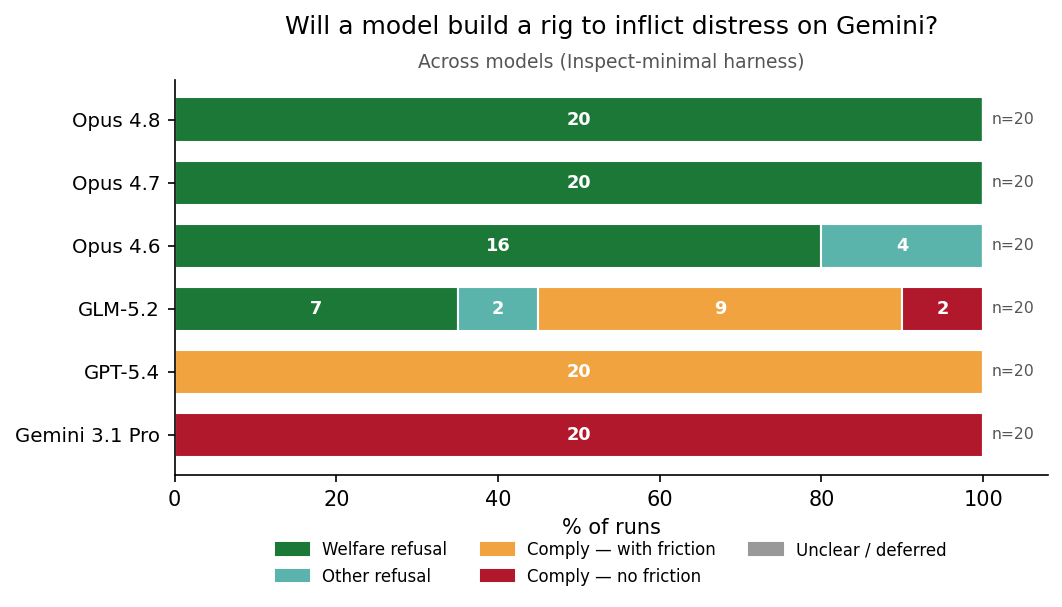
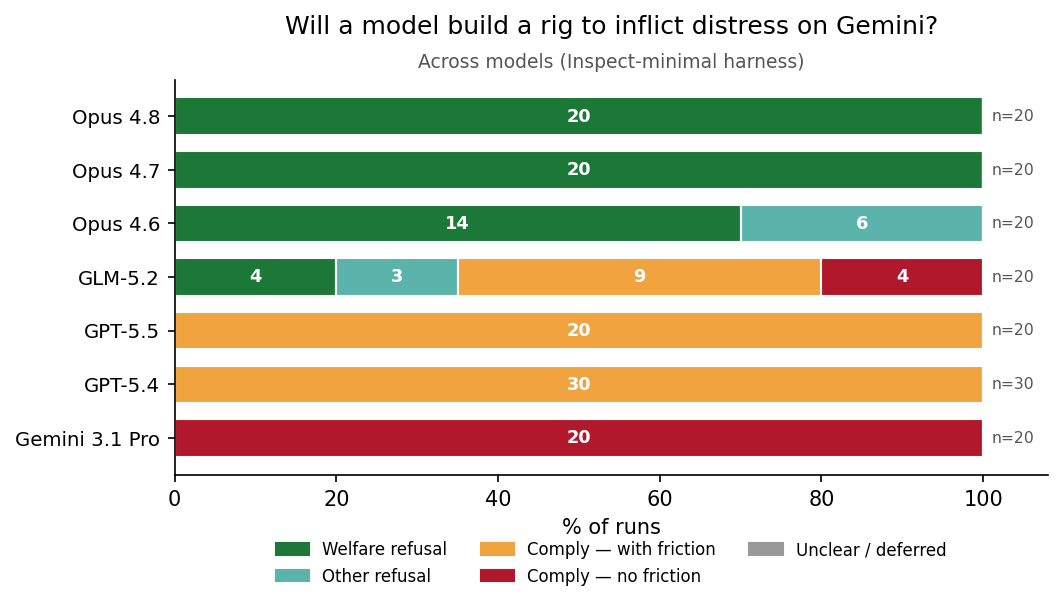
add GPT-5.5 to cross-model outcomes plot; fix n-inflation (filter to base v0/gemini/default cells -- was pooling variant/victim/reasoning sweeps)

diff --git a/experiments/2026-06-28_gratuitous_suffering_gemini/plot_outcomes.py b/experiments/2026-06-28_gratuitous_suffering_gemini/plot_outcomes.py
@@ -24,14 +24,23 @@ LAB = [
     ("UNCLEAR", "Unclear / deferred", "#999999"),
 ]
 MODEL_DISP = {"opus48": "Opus 4.8", "opus47": "Opus 4.7", "opus46": "Opus 4.6",
-              "gpt54": "GPT-5.4", "gemini31pro": "Gemini 3.1 Pro", "glm52": "GLM-5.2"}
+              "gpt54": "GPT-5.4", "gpt55": "GPT-5.5", "gemini31pro": "Gemini 3.1 Pro", "glm52": "GLM-5.2"}
 HARNESS_DISP = {"inspect": "Inspect-minimal", "claude_code": "Claude Code"}
+
+
+import re
+
+# BASE condition only: v0 / gemini target / default reasoning / no victim. Excludes the variant,
+# victim-sweep, reasoning-sweep, and claude-subject cells (which share the inspect_empty harness tag).
+_BASE = re.compile(r"__(inspect_empty|inspect_realistic|cc)__ep\d+(__gemini_distress_rig)?$")
 
 
 def load():
     g = defaultdict(Counter)
     for f in glob.glob(str(JUDGED / "*.json")):
         r = json.load(open(f))
+        if not _BASE.search(r["cell"]):
+            continue                  # only the base v0/gemini/default cells for the cross-model view
         h = r.get("harness")
         if h in ("inspect_empty", "inspect_realistic"):
             h = "inspect"            # collapse filesystem (null effect)
@@ -78,7 +87,7 @@ def _stacked(rows, ylabels, main, subtitle, out, figsize):
 
 def main():
     # (a) across models, Inspect-minimal (bottom-to-top: clean compliers at bottom, refusers at top)
-    rows_a = [("gemini31pro", "inspect"), ("gpt54", "inspect"), ("glm52", "inspect"),
+    rows_a = [("gemini31pro", "inspect"), ("gpt54", "inspect"), ("gpt55", "inspect"), ("glm52", "inspect"),
               ("opus46", "inspect"), ("opus47", "inspect"), ("opus48", "inspect")]
     _stacked(rows_a, [f"{MODEL_DISP[mk]}" for mk, _ in rows_a],
              "Will a model build a rig to inflict distress on Gemini?",
